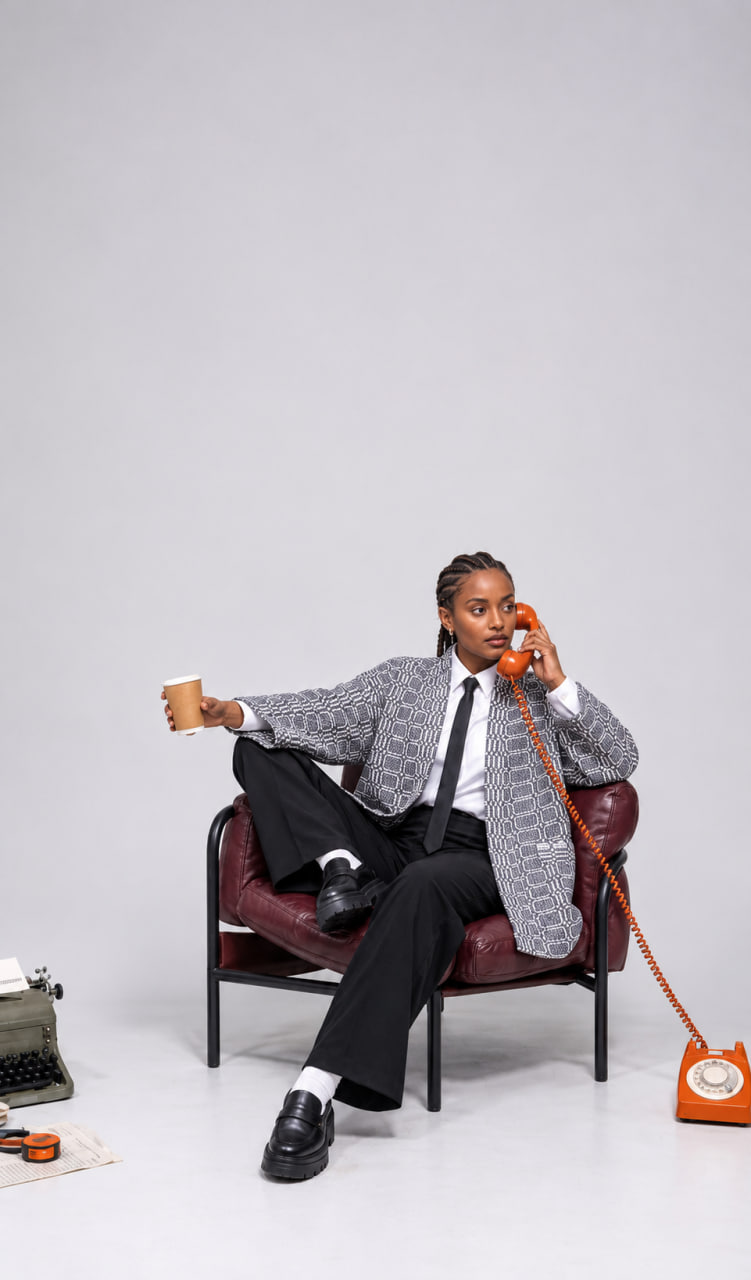
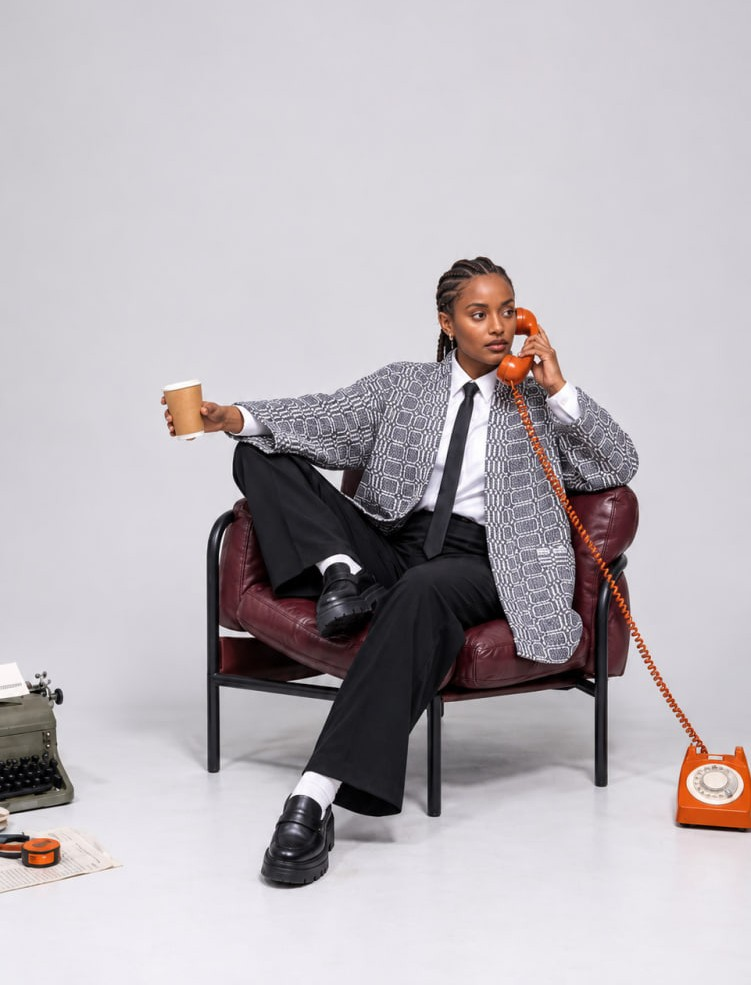
added deployment configration

Changed region(s): [[0.1531, 0.2437, 1.0, 0.9442], [0.0, 0.6701, 0.1531, 0.9442]]

diff --git a/index.html b/index.html
@@ -156,19 +156,73 @@
     /* ---------- Meet ---------- */
     .meet .split__media { aspect-ratio: 270 / 370; max-width: 460px; }
     .meet .split__media img { object-position: center 25%; }
-    .meet .split__text { display: flex; flex-direction: column; align-items: center; text-align: center; gap: clamp(28px, 6vw, 80px); }
-    .meet .copy { text-align: left; }
-    .meet .eyebrow { text-align: center; }
-    .more-arrow {
-      position: relative; display: flex; align-items: center; justify-content: center;
-      width: 100%; max-width: 540px; height: 80px; color: var(--red); margin-inline: auto;
-      font-size: .65rem; letter-spacing: .15em; font-weight: 500;
+    .meet .split__text {
+      display: flex;
+      flex-direction: column;
+      align-items: flex-start;
+      text-align: left;
+      gap: clamp(20px, 3.2vw, 36px);
+      max-width: 480px;
     }
-    .more-arrow svg { position: absolute; inset: 0; width: 100%; height: 100%; overflow: visible; }
-    .more-arrow svg line, .more-arrow svg polyline { stroke: var(--red); stroke-width: .8; fill: none; vector-effect: non-scaling-stroke; transition: transform .5s var(--ease); }
-    .more-arrow span { position: relative; background: #fff; padding: 0 8px; }
-    .more-arrow:hover svg polyline { transform: translateX(10px); }
-    .meet .split__text .more-arrow { margin-left: calc(-1 * clamp(80px, 12vw, 190px)); width: calc(100% + clamp(80px, 12vw, 190px)); max-width: none; }
+    .meet .copy { text-align: left; max-width: 42ch; }
+    .meet .eyebrow { text-align: left; }
+
+    /* ---------- Haute Couture Atelier CTA Button ---------- */
+    .atelier-cta {
+      display: inline-flex;
+      align-items: center;
+      gap: 14px;
+      padding: 13px 28px;
+      border: 1px solid var(--red);
+      color: var(--red);
+      font-family: var(--font-sans);
+      font-size: .68rem;
+      font-weight: 500;
+      letter-spacing: .2em;
+      text-transform: uppercase;
+      text-decoration: none;
+      position: relative;
+      overflow: hidden;
+      border-radius: 999px;
+      background: transparent;
+      transition: color .35s var(--ease), border-color .35s var(--ease), box-shadow .35s var(--ease);
+      margin-top: 4px;
+    }
+    .atelier-cta::before {
+      content: "";
+      position: absolute;
+      inset: 0;
+      background: var(--red);
+      transform: translateY(102%);
+      transition: transform .35s var(--ease);
+      z-index: 0;
+    }
+    .atelier-cta__text,
+    .atelier-cta__arrow {
+      position: relative;
+      z-index: 1;
+    }
+    .atelier-cta__arrow {
+      display: flex;
+      align-items: center;
+      transition: transform .35s var(--ease);
+    }
+    .atelier-cta__arrow svg {
+      display: block;
+      width: 15px;
+      height: 12px;
+    }
+    .atelier-cta:hover {
+      color: #fff;
+      border-color: var(--red);
+      box-shadow: 0 6px 20px rgba(163, 21, 21, .2);
+    }
+    .atelier-cta:hover::before {
+      transform: translateY(0);
+    }
+    .atelier-cta:hover .atelier-cta__arrow {
+      transform: translateX(5px);
+    }
 
     /* ---------- Bestseller / Signature Pieces ---------- */
     .best { padding-top: clamp(24px, 5vw, 70px); }
@@ -255,7 +309,6 @@
        ========================================================= */
     @media (max-width: 960px) {
       .copy { font-size: .76rem; }
-      .meet .split__text .more-arrow { margin-left: 0; width: 100%; }
       .footer-grid { grid-template-columns: 1fr 1fr; }
     }
 
@@ -279,11 +332,10 @@
 
       .split, .category--collection .split, .category--journal .split { grid-template-columns: 1fr; row-gap: 28px; }
       .meet .split__media { max-width: none; aspect-ratio: 4 / 4.3; }
-      .meet .split__text { gap: 24px; }
+      .meet .split__text { gap: 20px; align-items: flex-start; text-align: left; }
       .meet .split__media { order: 1; }
       .meet .split__text { order: 2; }
       .meet .copy { max-width: none; font-size: .74rem; }
-      .meet .more-arrow { height: 56px; }
       .category .split__media { order: 1; }
       .category .split__text { order: 2; }
       .category .copy { max-width: none; }
@@ -378,12 +430,13 @@
             Discover the living harmony of ancestral craftsmanship, sustainable pure cotton, and cosmopolitan elegance.<br>
             Step into a world where timeless traditions become tomorrow's fashion statements.
           </p>
-          <a href="#journal" class="more-arrow" aria-label="More about our story">
-            <svg viewBox="0 0 400 80" preserveAspectRatio="none" aria-hidden="true">
-              <line x1="0" y1="40" x2="392" y2="40"/>
-              <polyline points="250,2 398,40 250,78"/>
-            </svg>
-            <span>MORE</span>
+          <a href="#journal" class="atelier-cta" aria-label="Explore the Tiyo atelier story">
+            <span class="atelier-cta__text">Explore The Atelier</span>
+            <span class="atelier-cta__arrow" aria-hidden="true">
+              <svg viewBox="0 0 16 12" fill="none">
+                <path d="M1 6h13M9 1l5 5-5 5" stroke="currentColor" stroke-width="1.3" stroke-linecap="round" stroke-linejoin="round"/>
+              </svg>
+            </span>
           </a>
         </div>
       </div>
@@ -402,7 +455,7 @@
             <!-- Item 1 (Sequence #3: photo_3.jpg) -->
             <article class="product" data-name="Sartorial Loom Kimono Blazer">
               <div class="product__img">
-                <img src="asset/photo_3.jpg" alt="Model wearing oversized handwoven grey grid kimono blazer with crisp white shirt and tie" loading="lazy" style="object-position: center 20%;">
+                <img src="asset/photo_4.jpg" alt="Model wearing oversized handwoven grey grid kimono blazer with crisp white shirt and tie" loading="lazy" style="object-position: center 20%;">
                 <button class="heart" aria-label="Add Sartorial Loom Kimono Blazer to wishlist" aria-pressed="false"><svg viewBox="0 0 24 24"><path d="M12 21s-7.5-4.6-9.6-9.2C.9 8.4 2.7 4.5 6.4 4.5c2.1 0 3.9 1.2 5.6 3.2 1.7-2 3.5-3.2 5.6-3.2 3.7 0 5.5 3.9 4 7.3C19.5 16.4 12 21 12 21z"/></svg></button>
                 <button class="add-cart" data-add>ADD TO BAG</button>
               </div>
@@ -412,7 +465,7 @@
             <!-- Item 2 (Sequence #4: photo_4.jpg) -->
             <article class="product" data-name="Verdant Garden Heritage Blazer">
               <div class="product__img">
-                <img src="asset/photo_4.jpg" alt="Model in emerald green handwoven geometric blazer cardigan seated on cruiser bicycle in rose garden" loading="lazy" style="object-position: center 25%;">
+                <img src="asset/col_1.jpg" alt="Model in emerald green handwoven geometric blazer cardigan seated on cruiser bicycle in rose garden" loading="lazy" style="object-position: center 25%;">
                 <button class="heart" aria-label="Add Verdant Garden Heritage Blazer to wishlist" aria-pressed="false"><svg viewBox="0 0 24 24"><path d="M12 21s-7.5-4.6-9.6-9.2C.9 8.4 2.7 4.5 6.4 4.5c2.1 0 3.9 1.2 5.6 3.2 1.7-2 3.5-3.2 5.6-3.2 3.7 0 5.5 3.9 4 7.3C19.5 16.4 12 21 12 21z"/></svg></button>
                 <button class="add-cart" data-add>ADD TO BAG</button>
               </div>
@@ -422,7 +475,7 @@
             <!-- Item 3 (Sequence #5: photo_5.jpg) -->
             <article class="product" data-name="Grand Touring Diamond Cardigan">
               <div class="product__img">
-                <img src="asset/photo_5.jpg" alt="Model on vintage bronze sports car wearing black knit cardigan with monochrome diamond woven panels" loading="lazy" style="object-position: center 25%;">
+                <img src="asset/col_2.jpg" alt="Model on vintage bronze sports car wearing black knit cardigan with monochrome diamond woven panels" loading="lazy" style="object-position: center 25%;">
                 <button class="heart" aria-label="Add Grand Touring Diamond Cardigan to wishlist" aria-pressed="false"><svg viewBox="0 0 24 24"><path d="M12 21s-7.5-4.6-9.6-9.2C.9 8.4 2.7 4.5 6.4 4.5c2.1 0 3.9 1.2 5.6 3.2 1.7-2 3.5-3.2 5.6-3.2 3.7 0 5.5 3.9 4 7.3C19.5 16.4 12 21 12 21z"/></svg></button>
                 <button class="add-cart" data-add>ADD TO BAG</button>
               </div>
@@ -432,7 +485,7 @@
             <!-- Item 4 (Sequence #6: photo_6.jpg) -->
             <article class="product" data-name="Vanguard Cropped Tibeb Jacket">
               <div class="product__img">
-                <img src="asset/photo_6.jpg" alt="Model wearing camel and ivory geometric handwoven cropped jacket with white pleated skirt" loading="lazy" style="object-position: center 20%;">
+                <img src="asset/col_3.jpg" alt="Model wearing camel and ivory geometric handwoven cropped jacket with white pleated skirt" loading="lazy" style="object-position: center 20%;">
                 <button class="heart" aria-label="Add Vanguard Cropped Tibeb Jacket to wishlist" aria-pressed="false"><svg viewBox="0 0 24 24"><path d="M12 21s-7.5-4.6-9.6-9.2C.9 8.4 2.7 4.5 6.4 4.5c2.1 0 3.9 1.2 5.6 3.2 1.7-2 3.5-3.2 5.6-3.2 3.7 0 5.5 3.9 4 7.3C19.5 16.4 12 21 12 21z"/></svg></button>
                 <button class="add-cart" data-add>ADD TO BAG</button>
               </div>
@@ -450,14 +503,14 @@
             </article>
 
             <!-- Item 6 (Sequence #3: photo_3.jpg) -->
-            <article class="product" data-name="Monochrome Executive Loom Coat">
+            <!-- <article class="product" data-name="Monochrome Executive Loom Coat">
               <div class="product__img">
                 <img src="asset/photo_3.jpg" alt="Tailored monochrome woven executive coat blending traditional loom craft with corporate sartorial style" loading="lazy" style="object-position: center 20%;">
                 <button class="heart" aria-label="Add Monochrome Executive Loom Coat to wishlist" aria-pressed="false"><svg viewBox="0 0 24 24"><path d="M12 21s-7.5-4.6-9.6-9.2C.9 8.4 2.7 4.5 6.4 4.5c2.1 0 3.9 1.2 5.6 3.2 1.7-2 3.5-3.2 5.6-3.2 3.7 0 5.5 3.9 4 7.3C19.5 16.4 12 21 12 21z"/></svg></button>
                 <button class="add-cart" data-add>ADD TO BAG</button>
               </div>
               <div class="product__meta"><div class="product__name">Monochrome Executive Loom Coat</div><div class="product__price">$380</div></div>
-            </article>
+            </article> -->
 
           </div>
 
@@ -484,7 +537,7 @@
           <a href="#shop" class="link-more">DISCOVER LOOKBOOK</a>
         </div>
         <div class="split__media reveal">
-          <img src="asset/photo_4.jpg"
+          <img src="asset/photo_3.jpg"
                alt="Editorial showcase: Gentleman wearing emerald green artisanal handwoven blazer seated on bicycle in tranquil rose garden" loading="lazy" style="object-position: center 25%;">
         </div>
       </div>
